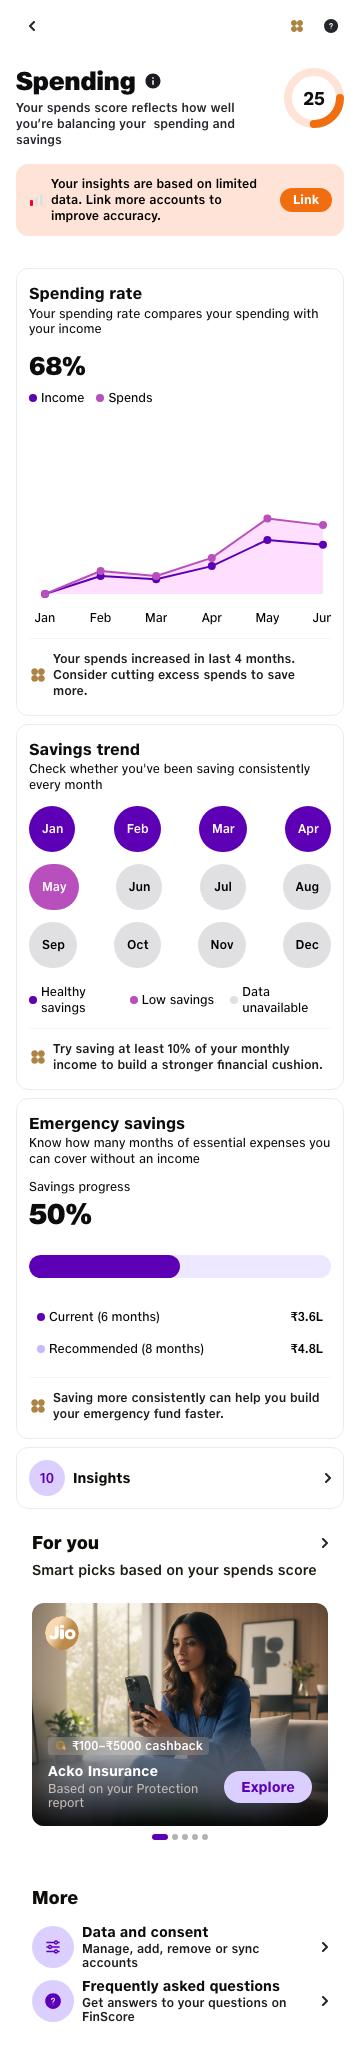
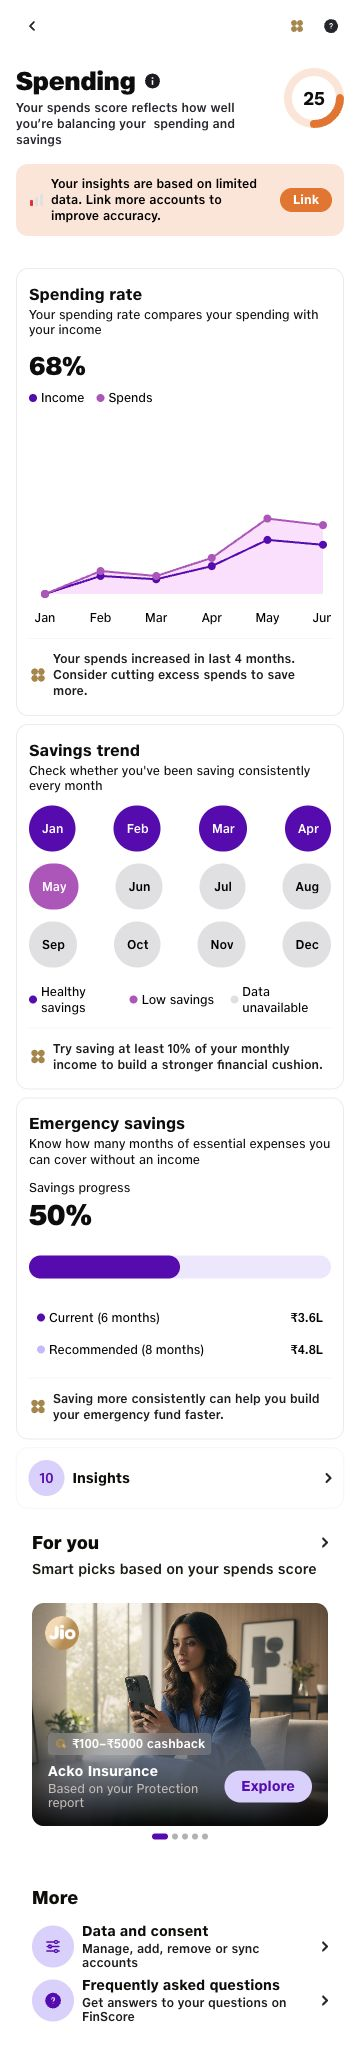
Fix cashback badge mode ownership

diff --git a/src/screens/health-report/HealthReportMerchandisingCarousel.tsx b/src/screens/health-report/HealthReportMerchandisingCarousel.tsx
@@ -1,6 +1,7 @@
 import React from 'react'
 import {
   Avatar,
+  Badge,
   Button,
   Carousel,
   ProductMerchandisingCard,
@@ -9,7 +10,7 @@ import cashbackImage from '../../assets/health-report-cashback.png'
 import ackoImage from '../../assets/health-report-acko.png'
 import jioLogo from '../../assets/jio-logo.png'
 
-const CASHBACK_ICON_MODES = {
+const CASHBACK_BADGE_MODES = {
   'Color Mode': 'Light',
   'Page type': 'SubPage',
   'Avatar Size': 'XS',
@@ -23,12 +24,18 @@ function AckoCard({ index }: { index: number }) {
       avatarSource={jioLogo}
       title="Acko Insurance"
       subtitle="Based on your Protection report"
-      specialBadgeLabel="₹100–₹5000 cashback"
-      specialBadgeIcon={
-        <Avatar
-          style="Image"
-          imageSource={cashbackImage}
-          modes={CASHBACK_ICON_MODES}
+      specialBadge={
+        <Badge
+          type="glass"
+          label="₹100–₹5000 cashback"
+          modes={CASHBACK_BADGE_MODES}
+          leading={
+            <Avatar
+              style="Image"
+              imageSource={cashbackImage}
+              modes={CASHBACK_BADGE_MODES}
+            />
+          }
         />
       }
       cta={

diff --git a/docs/qa/health-report/QA_REPORT.md b/docs/qa/health-report/QA_REPORT.md
@@ -42,6 +42,7 @@ Key resolved mode flow:
 - Health standalone insight Nudge owns `Context=Nudge&Alert` and `AppearanceBrand=Neutral`; its approved Hello Jio slot remains explicitly Primary.
 - Health rating cards own the CTA/Secondary and Section contexts. The neutral, low-emphasis S-size feedback mode is explicitly forwarded through `ButtonGroup` to both slotted `IconButton`s.
 - Product CTA slots use Secondary, Medium-emphasis, S-size Coin Buttons.
+- The merchandising cashback `Badge` owns `Context4=Badge/glass`; its exact mode object is forwarded to the slotted cashback `Avatar`.
 - Spending insight cards retain their selected Brand/DataViz modes and `context 8=Section` for the approved shell.
 - Emergency `SavingsGoalSummary` owns `AppearanceBrand=Secondary`, producing the purple indicator and lavender track.
 - Spending's slotted score ring owns warning-system modes without leaking warning context into `CardAdvisory`.
@@ -56,8 +57,8 @@ Key resolved mode flow:
 
 | Screen | Reference | Implementation | SSIM | Manual result |
 | --- | --- | --- | --- | --- |
-| Health Report | 360×2187 | 360×2187 | 0.667463 | Complete frame; neutral Nudge; full comparison card; contained neutral feedback actions; native five-dot pagination; complete More section |
-| Spending | 360×2054 | 360×2054 | 0.596860 | Complete frame; contained hero; grey insight shells; 8px rhythm; purple/lavender emergency progress; full-width product card; complete More section |
+| Health Report | 360×2187 | 360×2187 | 0.674613 | Complete frame; neutral Nudge; full comparison card; contained neutral feedback actions; Badge/glass cashback slot; native five-dot pagination; complete More section |
+| Spending | 360×2054 | 360×2054 | 0.610233 | Complete frame; contained hero; grey insight shells; 8px rhythm; purple/lavender emergency progress; Badge/glass cashback slot; full-width product card; complete More section |
 
 SSIM is a same-dimension diagnostic, not a substitute for the manual region comparison. Canonical evidence:
 
@@ -75,6 +76,7 @@ SSIM is a same-dimension diagnostic, not a substitute for the manual region comp
 | Spending CardInsight grey shells and 8px stack rhythm | Pass |
 | Emergency progress is purple/lavender and retains 50%, ₹3.6L and ₹4.8L | Pass |
 | Spending hero is fully contained; both merchandising carousels have native five-dot pagination | Pass |
+| Cashback Badge owns `Context4=Badge/glass` and forwards the same mode object to its leading Avatar | Pass |
 | Approved copy/order, right-edge containment, and complete bottom content at exact reference dimensions | Pass |
 
 ## Validation
